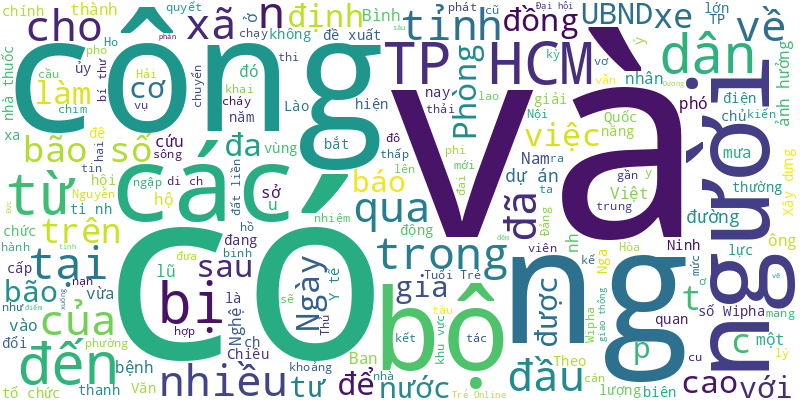
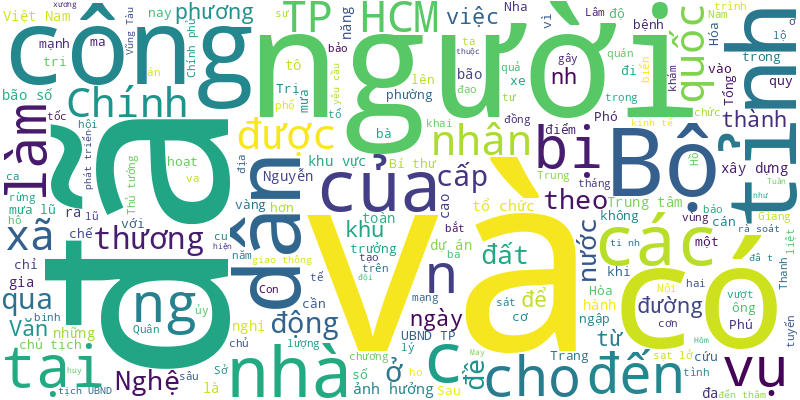
🍀 = 20%

diff --git a/README.md b/README.md
@@ -1,6 +1,32 @@
 # Tuoi Tre RSS 
 
 ## Giáo dục 
+- Bộ Chính trị thống nhất chủ trương đầu tư xây dựng các trường phổ thông nội trú liên cấp tiểu học và trung học cơ sở (THCS) tại 248 xã biên giới đất liền. Đây là lần đầu tiên có mô hình trường phổ thông nội trú liên cấp này ở các xã biên giới.
+- Một nhóm quản trị viên đã dùng fanpage giả mạo trang chính thức của Trường đại học Yersin Đà Lạt để thông tin nhiều nội dung không đúng về nhà trường. Cơ quan công an nhận định đây là hành vi bôi nhọ.
+- Hầu hết trường đại học chuyên ngành sức khỏe đều sử dụng chứng chỉ IELTS để tuyển sinh, cộng điểm xét tuyển.
+- Theo Bộ Giáo dục và Đào tạo, đội tuyển Việt Nam dự Olympic vật lý quốc tế (IPhO) năm 2025 giành 1 huy chương vàng, 4 huy chương bạc.
+- Một số trường đại học ở TP.HCM vừa công bố điểm sàn năm 2025, thấp hơn điểm chuẩn năm 2024 từ 8 - 13 điểm.
+- Tính đến hết ngày 23-7, đã có hơn 200 trường đại học, học viện công bố điểm sàn xét tuyển bằng điểm thi tốt nghiệp THPT, mức điểm dao động 14 - 25 điểm.
+- Trường đại học Ngân hàng TP.HCM và Trường đại học Công Thương TP.HCM vừa công bố điểm sàn và quy đổi điểm xét tuyển đại học hệ chính quy năm 2025.
+- Trường đại học Công nghệ thông tin (Đại học Quốc gia TP.HCM) bất ngờ điều chỉnh giảm điểm sàn xét tuyển đại học năm 2025 đã công bố trước đây. Học viện Hàng không Việt Nam cũng vừa điều chỉnh điểm sàn.
+- Chiều 23-7, đại diện UBND phường Phú Nhuận, TP.HCM cho biết clip bạo hành trẻ mầm non xuất hiện trên mạng xã hội những ngày qua là clip cũ, người bạo hành chuẩn bị hầu tòa.
+- Theo Học viện Ngân hàng, năm tổ hợp A00, A01, D07, D09, D14 không có chênh lệch điểm so với tổ hợp D01; tổ hợp C00, C03 có điểm trúng tuyển cao hơn so với tổ hợp D01 là 2,5 điểm/thang điểm 30.
+- Câu lạc bộ Khoa học - Khơi nguồn sáng tạo có nhiệm vụ giúp học sinh bồi dưỡng năng khiếu, niềm yêu thích đối với khoa học, công nghệ...
+- Thí sinh Phạm Huy Hùng nhận thông báo không trúng tuyển vào Trường THPT chuyên Trần Phú (Hải Phòng) đã được nhận trở lại.
+- Trường đại học Kinh tế - Luật (Đại học Quốc gia TP.HCM) vừa công bố điểm sàn và quy tắc quy đổi điểm trúng tuyển tương đương của các phương thức tuyển sinh năm 2025.
+- Ban Tuyển sinh quân sự (Bộ Quốc phòng) đã thông báo quy định mức điểm nhận hồ sơ xét tuyển đại học, cao đẳng vào 20 trường quân đội năm 2025 (điểm sàn).
+- Chiều 23-7, Trường đại học Sài Gòn công bố điểm sàn xét tuyển vào trường. Ngành cao nhất lên đến 25.
+- 203 học sinh xuất sắc được tuyển chọn để làm quen sớm với lập trình, dữ liệu và trí tuệ nhân tạo (AI) tại TP.HCM.
+- Bảng quy đổi điểm tương đương giữa các phương thức được Trường đại học Ngoại thương xây dựng dựa trên dữ liệu tuyển sinh 3 năm gần nhất, kết quả học tập của sinh viên đã trúng tuyển và phổ điểm xét tuyển theo từng nhóm thí sinh.
+- Ngày 23-7, Trường đại học Y Hà Nội công bố ngưỡng điểm sàn nhận hồ sơ xét tuyển năm 2025 phương thức xét điểm thi tốt nghiệp THPT, dao động từ 17 - 22,5 điểm.
+- Ngày 23-7, Đại học Cần Thơ thông báo ngưỡng đảm bảo chất lượng đầu vào (điểm sàn) đối với các ngành học bậc đại học chính quy năm 2025.
+- Trường đại học Khoa học xã hội và Nhân văn (Đại học Quốc gia TP.HCM) vừa công bố điểm các phương thức xét tuyển, trong đó ngành báo chí vẫn trong nhóm các ngành có điểm cao nhất.
+- Một số trường đào tạo y dược phía Bắc chính thức công bố ngưỡng điểm sàn xét tuyển riêng.
+- Trường đại học Y Dược công bố điểm sàn xét tuyển đại học chính quy năm 2025, với tất cả các ngành đều giảm 2 điểm so với mức sàn năm trước.
+- Tiếp xúc cử tri phường Quy Nhơn, Phó thủ tướng Hồ Đức Phớc nói ông đồng quan điểm việc nên thống nhất một bộ sách giáo khoa trên toàn quốc.
+- Vì sao nhiều người không đến họp lớp, hoặc đến rồi rời đi cùng tiếng thở dài?
+- Lần đầu tiên Bộ Giáo dục và Đào tạo công bố bách phân vị điểm thi 7 tổ hợp xét tuyển đại học. Vậy bách phân vị là gì, ý nghĩa ra sao?
+- Từ ngày 1-7, hàng triệu học sinh, sinh viên trên cả nước sẽ được hỗ trợ 50% mức đóng bảo hiểm y tế, thay vì chỉ 30% như trước.
 - Các chuyên gia nhận định điểm sàn khối ngành sức khỏe, sư phạm năm nay phù hợp với thực tế kỳ thi tốt nghiệp.
 - Nhiều trường đại học công bố điểm quy đổi tương đương giữa điểm học bạ, đánh giá năng lực và điểm thi đánh giá năng lực.
 - Trường đại học Y Dược Cần Thơ vừa có thông báo về ngưỡng đảm bảo chất lượng đầu vào xét tuyển các ngành hệ đại học chính quy năm 2025.
@@ -25,86 +51,63 @@
 - Năm nay, Trường đại học Ngoại thương (FTU) lấy điểm sàn cho phương thức xét điểm thi tốt nghiệp THPT với tổ hợp A00 (toán, lý, hóa) 24 điểm, các tổ hợp còn lại 23 điểm.
 - Chiều 21-7, Phó chủ tịch UBND TP.HCM đón và thưởng nóng 50 triệu đồng cho học sinh đoạt HCB toán quốc tế Lê Phan Đức Mân.
 - Điểm sàn các ngành sư phạm của trường là 19, tương đương điểm sàn khối ngành sư phạm năm 2024 do Bộ Giáo dục và Đào tạo công bố.
-- Ngày 21-7, giám đốc Sở Giáo dục và Đào tạo TP.HCM đã có quyết định về việc phân cấp thẩm quyền giải quyết việc chuyển trường sau sáp nhập.
-- Trường đại học Công nghiệp Hà Nội đã công bố bảng quy đổi điểm thi tốt nghiệp THPT với học bạ, điểm thi đánh giá năng lực, đánh giá tư duy.
-- Đại học Kinh tế TP.HCM vừa công bố điểm sàn và dự báo điểm chuẩn xét tuyển đại học chính quy năm 2025 của hai cơ sở đào tại TP.HCM và Vĩnh Long.
-- Những ngày này, từ trường học đến từng gia đình, đâu đâu cũng thấy những dòng trạng thái, những bức ảnh khoe điểm số, thành tích.
-- 5 sinh viên của Trường Du lịch (HTi), Đại học (ĐH) Duy Tân vừa chính thức nhận chứng chỉ thực tập, ghi nhận những nỗ lực và đóng góp trong các hoạt động do Vietnam Airlines tổ chức.
-- Chiều 21-7, hơn 70 đại học công bố điểm sàn 2025, phần lớn giảm so với năm ngoái.
-- Ngô Quang Minh giành HCV Olympic Hóa 2025, giúp Trường THPT chuyên Bắc Ninh có 3 năm liên tiếp đoạt vàng.
-- 300 thí sinh có điểm IELTS từ 7.5 - 8.5, một thí sinh có điểm SAT tuyệt đối 1.600/1.600 nộp chứng chỉ quốc tế để cộng điểm xét tuyển Trường đại học Y dược TP.HCM.
-- Trường đại học Sư phạm Hà Nội công bố các mốc quy đổi chính giữa điểm tổ hợp thi đánh giá năng lực do trường tổ chức sang điểm thi tốt nghiệp THPT.
-- Học viện Công nghệ bưu chính viễn thông vừa công bố ngưỡng đảm bảo chất lượng đầu vào trình độ đại học hệ chính quy đợt 1 năm 2025 (điểm sàn xét tuyển).
-- Các trường THPT ở TP.HCM cảnh báo khẩn phụ huynh, học sinh lớp 12 về chiêu lừa đảo mới sau khi có điểm thi tốt nghiệp THPT 2025.
-- Lần đầu tiên sẽ có mô hình trường phổ thông nội trú liên cấp tiểu học - THCS tại 248 xã biên giới, trước năm học mới 2025 - 2026 sẽ thí điểm cải tạo hoặc xây mới 100 trường ở dải đất vùng biên.
-- Năm 2025 với nhiều thay đổi trong tuyển sinh đại học, Bộ GD-ĐT và các trường thực hiện quy trình xét tuyển, lọc ảo ra sao? Thí sinh cần lưu ý gì để tránh mất cơ hội trúng tuyển?
-- Trường đại học Quốc tế Sài Gòn (SIU) triển khai chương trình học bổng 50% học phí toàn khóa dành cho thí sinh là con ruột của cán bộ, viên chức đang công tác trong ngành giáo dục và y tế.
-- Đăng ký nguyện vọng như thế nào để nắm chắc cơ hội trúng tuyển đại học luôn là một trong những bài toán khó đối với không ít thí sinh và cả các bậc phụ huynh.
-- Dự kiến quý 4-2025 phân hiệu miền Trung của Trường đại học Luật TP.HCM tại Quảng Trị bắt đầu tuyển sinh.
-- Việc Trần Xuân Đam trở thành một trong hai thủ khoa toàn quốc của kỳ thi tốt nghiệp THPT 2025 đang là đề tài bàn tán rôm rả ở vùng quê Lang Xá.
-- Một nữ sinh Trường THCS Đăk Mar (xã Đăk Mar, Quảng Ngãi) bị một nhóm nam nữ đánh hội đồng ở rẫy cà phê và quay video truyền cho nhau xem.
-- ThS Phạm Thanh Hà, Trường đại học Ngoại thương, lưu ý để tăng cơ hội trúng tuyển ngành học yêu thích, thí sinh không nên đặt quá ít nguyện vọng, cũng không nên đặt tất cả nguyện vọng vào một trường.
-- Đăng ký nguyện vọng thế nào để vừa theo được ngành yêu thích, vừa có nhiều cơ hội trúng tuyển? Chương trình học ra sao, học phí thế nào... Nhiều phụ huynh, thí sinh đã được chuyên gia tư vấn chi tiết tại Ngày hội lựa chọn nguyện vọng xét tuyển ĐH-CĐ.
-- Nhiều người cho rằng lời cảm ơn chỉ có trẻ con mới cần nói; hoặc chỉ nên nói với người thân quen, nếu cứ nói cảm ơn thì khách sáo quá.
-- Sau bài viết về nhóm học sinh tụ tập ném vỏ chai bia ra đường ở Quảng Trị, nhiều bạn đọc đánh giá cao với cách xử lý buộc phụ huynh cùng con em dọn sạch hiện trường.
-- Trận lốc xoáy quét qua một ngôi trường ở Hà Tĩnh khiến dãy nhà hai tầng bị tốc mái hoàn toàn, ước tính thiệt hại khoảng 300 triệu đồng.
-- Trong tập phát sóng tiếp theo của Khám phá trường học 2025, mời khán giả cùng chương trình tìm hiểu các ngành học tại Trường đại học Yersin Đà Lạt.
-- Tin tức đáng chú ý: Điểm chuẩn tuyển sinh đại học năm 2025 khó đoán; Bộ Y tế yêu cầu cấp cứu tối đa cho nạn nhân vụ lật tàu du lịch; Đề xuất chỉ cơ quan báo chí mới được sản xuất kênh chương trình chuyên quảng cáo...
-- Với phương thức xét điểm thi THPT 2025, điểm sàn các trường đại học dao động từ 15 đến 24.
 ![Edu](Edu.png)
 ## Thời Sự 
-- Đang câu cá, anh Đầu nghe tiếng kêu cứu thất thanh từ một hồ nước cạnh đó và đã lao xuống hồ nước sâu để cứu người.
-- Phòng khám đa khoa Việt Khang Thủ Đức là điểm nóng thường xuyên bị người dân phản ánh có tình trạng 'vẽ bệnh, moi tiền'.
-- Trong đêm 22-7, nhiều người dân ở xã Tương Dương (tỉnh Nghệ An) chạy lên núi, tìm nơi cao để tránh lũ.
-- Sau khi bão Wipha đổ bộ vào đất liền nước ta, nhiều người cho rằng ảnh hưởng gió bão, mưa có nơi cũng không lớn như dự báo trước đó.
-- Mưa lớn do bão số 3 (Wipha) khiến dòng chảy lũ về hồ thủy điện Bản Vẽ (Nghệ An) ở mức rất cao, vượt lưu lượng lũ thiết kế gần 3.000m³/s. Lũ trên sông Cả ở các trạm Mường Xén, Thạch Giám và Con Cuông đều trên báo động 3 từ 4,7m đến gần 8m.
-- Tin tức đáng chú ý: Đề xuất phụ cấp mới cho nhà giáo từ 1-1-2026 mức 25-80% lương; Bệnh viện Bạch Mai và Việt Đức mới hoạt động từ 30-11 tới đây.
-- Hôm nay 23-7, dù bão số 3 đã tan nhưng vùng nhiễu động suy yếu từ bão vẫn gây mưa to cho Bắc Bộ và các vùng lân cận.
-- Đêm 22-7, nước sông Nậm Mộ qua xã Mường Xén, tỉnh Nghệ An dâng cao gây ngập lụt nhiều khu dân cư. Người dân và chính quyền đang hối hả 'chạy lũ'.
-- Thủ tướng Lào tin tưởng nhân dân Việt Nam sẽ vượt qua mọi khó khăn, đưa cuộc sống của các gia đình bị ảnh hưởng sớm ổn định.
-- Thông tin được đưa ra trong quyết định số 1575 do Phó thủ tướng thường trực Nguyễn Hòa Bình ký ban hành về kế hoạch triển khai thi hành Luật Cán bộ, công chức năm 2025.
-- Ông Lâm Văn Mẫn được chỉ định làm bí thư Đảng ủy Hội đồng Dân tộc và phê chuẩn ông Hoàng Duy Chinh làm phó chủ tịch thường trực Hội đồng Dân tộc của Quốc hội.
-- Quảng Ngãi đang căng mình dập dịch tả heo châu Phi ở phía đông (tỉnh Quảng Ngãi cũ) thì đàn bò ở phía tây (tỉnh Kon Tum cũ) xuất hiện các triệu chứng bất thường, cơ quan chức năng ngay ngáy lo dịch lở mồm long móng.
-- Theo Phó chủ tịch UBND tỉnh Khánh Hòa Trần Hòa Nam, tỉnh sẽ gặp gỡ, đối thoại với doanh nghiệp, nhà đầu tư để giải quyết các kiến nghị và công khai, cam kết tiến độ xử lý đảm bảo minh bạch, hiệu quả, thực chất.
-- Khoảng 17h30 ngày 22-7, tại đê bối khu vực cống Cù Là, xã Hồng Vũ, tỉnh Hưng Yên có hiện tượng tràn 300m trên mặt đê và vỡ khoảng 7m đê.
-- Một đôi nam nữ người Lào mang theo 17kg ma túy đá cùng 6.000 viên ma túy tổng hợp qua biên giới Việt - Lào thì bị biên phòng bắt giữ.
-- Chiều 22-7, ông Nguyễn Văn Nên - ủy viên Bộ Chính trị, bí thư Thành ủy TP.HCM - dẫn đầu đoàn công tác thăm hỏi, tặng quà các thương binh, bệnh binh, người có công tại xã Long Hải, TP.HCM.
-- Do mưa lớn kéo dài ảnh hưởng từ cơn bão số 3 (bão Wipha), nước sông suối ở các xã miền núi Nghệ An dâng cao. Lũ quét qua cuốn trôi cầu, nhiều hộ dân bị chia cắt.
-- Nội dung được nêu trong thông báo kết luận của chủ tịch UBND TP.HCM, sau buổi làm việc với Tập đoàn Sun Group về đề xuất đầu tư các dự án tại TP.HCM.
-- Sau bão số 3, thủy triều lên nhanh làm một số tuyến đường nội đô thành phố Hải Phòng ngập trong nước.
-- Từ ngày 1 đến 18-7, TP.HCM đã tổ chức hơn 5.000 lượt xe đưa rước miễn phí cán bộ, công chức từ Bình Dương và Bà Rịa - Vũng Tàu cũ vào trung tâm TP làm việc.
-- Quảng Trị vừa có kiến nghị cơ chế đặc thù để tuyển dụng lãnh đạo, cán bộ phụ trách lĩnh vực đất đai có năng lực, chuyên môn để đáp ứng nhiệm vụ chủ đầu tư nhiều dự án giải phóng mặt bằng lớn, quan trọng của quốc gia.
-- Nhiều ý kiến đồng tình ủng hộ hướng bắt đầu chuyển đổi xe xăng sang xe điện bắt đầu từ shipper và góp ý cho lộ trình chuyển đổi tại TP.HCM.
-- Phó chủ tịch UBND TP.HCM Bùi Xuân Cường giao Sở Xây dựng khẩn trương phối hợp với UBND các phường xây dựng kế hoạch cải tạo, xây dựng lại 31 chung cư cũ trong năm 2025.
-- Chiều 22-7, bão số 3 (Wipha) bất ngờ ít di chuyển và tại Hòn Dấu (Hải Phòng), Văn Lý (Ninh Bình) lúc 16h vẫn có gió mạnh cấp 8, giật cấp 10.
-- Bộ trưởng Bộ Y tế Đào Hồng Lan đã có trả lời ý kiến của cử tri về đề xuất sáp nhập các trạm y tế xã, phường mới.
-- Dù việc nuôi chim diều lửa cần phải có giấy tờ chứng minh nguồn gốc hợp pháp, nhưng vẫn có người mang loài chim này đến bờ kênh Nhiêu Lộc - Thị Nghè, TP.HCM để huấn luyện cho chim bay lượn cũng như quay clip đăng lên mạng xã hội.
-- Vấn đề gói đồ ăn thừa từ đám cưới hoặc tiệc tùng để mang về nhà thu hút nhiều tranh luận, sau bài viết trên Tuổi Trẻ Online.
-- Công ty TNHH Công nghệ bảo hộ Kanglongda Việt Nam vừa bị UBND TP Huế xử phạt hành chính 335 triệu đồng, vì bán 2,6 tấn chất thải nguy hại cho người không có chức năng xử lý và vi phạm quy định về lưu giữ chất thải công nghiệp.
-- Theo bạn đọc, việc chẩn đoán khác biệt giữa hai cơ sở y tế là điều không thể chấp nhận.
-- Lợi dụng sáp nhập tỉnh thành, nhiều đối tượng lừa đảo giả mạo nhân viên điện lực TP.HCM để chiếm đoạt tài sản khách hàng.
-- Lực lượng cảnh sát phòng cháy chữa cháy và cứu nạn cứu hộ - Công an TP Hà Nội vừa phối hợp lực lượng tại chỗ, cơ sở dập tắt đám cháy tại ngôi nhà 5 tầng trên đường Giải Phóng.
-- Bộ Công an đã tổ chức các hoạt động nhân kỷ niệm 78 năm Ngày Thương binh Liệt sĩ, 65 năm Ngày thành lập Ban An ninh Trung ương Cục miền Nam tại tỉnh Tây Ninh.
-- Theo báo cáo của Sở Y tế TP.HCM, đến nay TP có 2.711 nhà thuốc (trong đó gồm nhà thuốc tư nhân, nhà thuốc bệnh viện, và các nhà thuốc của doanh nghiệp) tham gia bán giá thuốc bình ổn, thấp hơn giá thị trường tối thiểu 5%.
-- Do ảnh hưởng bão số 3, hai hãng tàu cao tốc Phú Quốc Express và Phú Quý Express tạm ngưng tuyến ra Côn Đảo từ 21 đến 25-7.
-- Sau khi phát hiện gà nuôi trong 1 hộ gia đình bị nhiễm cúm gia cầm A (H5N1), ngành chức năng Đắk Lắk đã khoanh vùng dập dịch.
-- Lúc 13h chiều 22-7, tâm bão số 3 (Wipha) đang trên đất liền Ninh Bình - Thanh Hóa. Dự báo trong chiều tối nay, bão sẽ đi sâu vào đất liền và suy yếu thành vùng áp thấp trên khu vực thượng Lào.
-- Do ảnh hưởng cơn bão số 3 Wipha, trong 2 ngày qua, trên địa bàn nhiều xã, phường của tỉnh Thanh Hóa có mưa to đến rất to làm gần 7.200ha lúa mùa bị ngập cục bộ.
-- Ông Nguyễn Trọng Nghĩa dẫn đầu đoàn công tác đến làm việc với Ban Thường vụ Tỉnh ủy An Giang về một số giải pháp phát triển kinh tế và công tác chuẩn bị Đại hội Đảng bộ nhiệm kỳ 2025-2030.
-- Phòng Cảnh sát giao thông Công an tỉnh Đồng Nai cho hay việc công bố số điện thoại nhằm giải quyết nhanh các vụ việc được người dân phản ảnh.
-- Ban Bí thư yêu cầu các cơ quan, địa phương tăng cường chỉ đạo, kiểm tra, ứng phó với bão số 3 (bão Wipha), hạn chế đến mức thấp nhất thiệt hại xảy ra.
-- Trao đổi với Tuổi Trẻ Online, trung tá Lê Thế Dũng, phó đồn trưởng Đồn biên phòng cửa khẩu cảng Hòn Gai, cho biết đã vớt được 1 thi thể nạn nhân tại khu vực cách vị trí tàu Vịnh Xanh 58 gặp nạn khoảng 500m.
-- Bộ Xây dựng cho biết cầu Nhơn Trạch đạt 99% khối lượng, sẵn sàng khai thác. Tuy nhiên, hiện chưa có đường kết nối với vành đai 3 TP.HCM. Tuổi Trẻ Online trao đổi với chủ đầu tư vành đai 3 về vấn đề này.
-- Ngày 22-7, Đảng bộ phường Nha Trang (tỉnh Khánh Hòa) tổ chức Đại hội đại biểu lần thứ I nhiệm kỳ 2025 - 2030. Đây là đại hội điểm cấp cơ sở của Khánh Hòa.
-- Xe hơi chở bốn người bất ngờ bị nổ lốp, sau đó lao vào xe đầu kéo và dải phân cách.
-- Ngày 22-7, Ban quản lý dự án Mỹ Thuận đã báo cáo Bộ Xây dựng về kế hoạch tổ chức lễ khởi công dự án cao tốc Mỹ An - Cao Lãnh giai đoạn 1.
-- Một ổ dịch bệnh dại vừa được phát hiện tại biên giới xã Ia Tơi, Quảng Ngãi. Đến nay đã có 15 con chó bị tiêu hủy và ít nhất hai người bị chó dại cắn đã được tiêm vắc xin, huyết thanh phòng bệnh dại.
-- Người đàn ông ở Đồng Nai chạy xe máy vào đường cong thì mất lái lao thẳng xuống lề đường, văng xa cả chục mét, tử vong sau đó.
-- Chính phủ vừa có nghị quyết tháo gỡ khó khăn, vướng mắc liên quan đến dự án ngăn triều 10.000 tỉ và dự án kết nối đường Phạm Văn Đồng đến nút giao thông Gò Dưa - quốc lộ 1.
-- Đảng ủy xã Nghĩa Hành, Quảng Ngãi đã họp với UBND xã chấn chỉnh những phát sinh không đáng có trong công tác phòng, chống dịch. Việc có người tự phát thu tiền của người dân là chưa đúng và yêu cầu hoàn trả.
-- TP.HCM sẽ nghiên cứu, đề xuất quy định bắt buộc kiểm định khí thải định kỳ xe máy, từng bước loại bỏ xe cũ nát nhằm giảm ô nhiễm môi trường và đảm bảo an toàn giao thông.
+- Hôm nay, cường độ bão Cỏ May (bão số 4) có thể mạnh lên cấp 10 (89-102km/h), giật cấp 12 - cấp bão mạnh nhưng hầu như không có khả năng ảnh hưởng đến đất liền và ven biển nước ta.
+- Theo Bộ Giáo dục và Đào tạo, đội tuyển Việt Nam dự Olympic vật lý quốc tế (IPhO) năm 2025 giành 1 huy chương vàng, 4 huy chương bạc.
+- Bộ xương người này được một người dân đi rừng phát hiện ở vùng rừng có tên Ngọn Khe Tuần, thuộc xã Tuyên Lâm, Quảng Trị, nghi là của người đàn ông mất tích khi đi săn mật ong.
+- Bộ Nội vụ đề xuất người sử dụng lao động không xóa bỏ, cắt giảm tiền lương khác của người lao động khi tăng lương tối thiểu vùng.
+- Hôm nay 24-7, trọng tâm mưa vẫn tập trung ở hai tỉnh Thanh Hóa, Nghệ An, mưa liên tục gây lũ và sạt lở nguy hiểm.
+- Phu nhân Tổng Bí thư Tô Lâm, bà Ngô Phương Ly, đã đến Matxcơva và dành hoạt động đầu tiên trong ngày 23-7 cho cộng đồng người Việt Nam tại đây.
+- Chương trình Ngày hội văn hóa hữu nghị Việt - Hàn 2025 tổ chức tại làn ô tô đường Lê Lợi (đoạn từ Nguyễn Huệ đến Pasteur), phường Sài Gòn từ nay đến 24h ngày 28-7.
+- 'Số nhà trôi khoảng 150 nhà, ngập trên 200 nhà, cầu treo Yên Hòa trôi hoàn toàn, quốc lộ 16 bị sạt lở chia cắt nhiều điểm…', bức thư tay của đồn trưởng Đồn biên phòng Mỹ Lý, Nghệ An viết vội.
+- Trước diễn biến mưa lũ do ảnh hưởng cơn bão số 3, Phó thủ tướng Chính phủ Mai Văn Chính đề nghị tỉnh Nghệ An có phương án đảm bảo an toàn tính mạng và tài sản của nhân dân và Nhà nước.
+- Lực lượng chức năng cơ bản đã khống chế được đám cháy xảy ra trên núi Hoàng Ngưu Sơn (phường Nam Nha Trang, tỉnh Khánh Hòa).
+- Ông Đỗ Văn Chiến nêu rõ việc xây dựng đề án sáp nhập, tinh gọn các tổ chức hội được Đảng, Nhà nước giao nhiệm vụ trình Bộ Chính trị.
+- Sở Xây dựng TP.HCM đề nghị lực lượng cảnh sát giao thông và các địa phương tổ chức ra quân chấn chỉnh, xử lý nghiêm tình trạng xe ba, bốn bánh tự chế lưu thông gây mất an toàn giao thông.
+- "Chuyển đổi phương tiện giao thông 'xanh' là nhiệm vụ cấp thiết, cần triển khai quyết liệt, khẩn trương theo các chỉ đạo của Chính phủ, HĐND và UBND TP" - theo ông Nguyễn Mạnh Quyền, phó chủ tịch UBND TP Hà Nội.
+- Những tấm lòng vàng, nghĩa cử cao đẹp của cộng đồng là nguồn động viên tiếp thêm sức mạnh cho người dân vùng lũ Nghệ An sớm vượt qua khó khăn.
+- Phó bí thư Thành ủy kiêm Chủ tịch Ủy ban Mặt trận Tổ quốc Việt Nam TP.HCM Nguyễn Phước Lộc đã đến thăm, tặng quà các thương binh, gia đình chính sách tiêu biểu, người có công với cách mạng.
+- TP.HCM yêu cầu rà soát, bố trí nhân sự làm việc tại Trung tâm phục vụ hành chính công TP.HCM, Trung tâm phục vụ hành chính công khu vực Bình Dương, Bà Rịa - Vũng Tàu và 38 tổ địa bàn để sẵn sàng hoạt động từ ngày 31-7.
+- Theo quy hoạch mới của Khu kinh tế Chân Mây - Lăng Cô (TP Huế), trong tương lai sẽ có một tuyến đường cao tốc nối cảng Chân Mây với cao tốc Cam Lộ - La Sơn.
+- Nhà đất của 31 hộ dân đường Nguyễn Bỉnh Khiêm, Nha Trang được tỉnh bán “hóa giá” cho cán bộ, công chức hơn 40 năm và lãnh đạo tỉnh Khánh Hòa cũ đã chỉ đạo giải tỏa, thu hồi đất để mở rộng khu trụ sở tỉnh đang xây.
+- Mỗi năm vào tháng bảy, nhân dân ta lại dành những tình cảm thiêng liêng và sâu lắng nhất để tưởng nhớ, tri ân những người hy sinh vì non sông đất nước.
+- Đến thăm người có công, Chủ tịch UBND TP.HCM Nguyễn Văn Được bày tỏ sự tri ân sâu sắc đến những cán bộ lão thành cách mạng, thương binh, bệnh binh đã dũng cảm chiến đấu, hy sinh xương máu vì sự nghiệp giải phóng dân tộc, bảo vệ Tổ quốc.
+- Ngày 23-7, UBND TP.HCM đã ban hành kế hoạch thực hiện công tác bồi thường, hỗ trợ, tái định cư cho dự án đường sắt tốc độ cao Bắc - Nam và dự án khai thác quỹ đất vùng phụ cận các nhà ga, depot đường sắt.
+- Mưa do ảnh hưởng của bão số 3 suy yếu không có dấu hiệu ngớt, dộ ẩm đất đã bão hòa, nhiều nơi ở Thanh Hóa, Nghệ An nguy cơ lũ, sạt lở rất cao.
+- Thủ tướng yêu cầu bộ trưởng Bộ Công Thương chỉ đạo các địa phương và chủ đập thủy điện rà soát, xây dựng phương án ứng phó để chủ động bảo đảm an toàn cho các hồ đập thủy điện, nhất là khi xuất hiện các tình huống mưa lũ lớn vượt mức thiết kế.
+- Thứ trưởng Bộ Công Thương Nguyễn Hoàng Long cho rằng các dự án năng lượng là các dự án quyết định việc tăng trưởng kinh tế hai con số.
+- Do sợ vợ buồn vì bán nhẫn để trả nợ, nên tài xế taxi đã dựng chuyện bị cướp nhẫn vàng và trình báo đến cơ quan công an.
+- Công an tỉnh An Giang đã bắt quả tang 3 người có hành vi dùng xe chuyên dụng khai thác đá, đất trái phép tại khu phố Đường Bào, đặc khu Phú Quốc.
+- Vụ va chạm khiến 2 người bị thương được đưa đi cấp cứu. Cảnh sát cùng người dân phải đẩy xe bán tải lên để giải cứu nạn nhân mắc kẹt.
+- Ngày 23-7, Thủ tướng Phạm Minh Chính chủ trì phiên họp Chính phủ chuyên đề xây dựng pháp luật tháng 7-2025.
+- Sau 2 tuần mở rộng truy xét đường dây tổ chức tội phạm ma túy liên quan 3 quán bar tại phường Đông Hòa, An Phú (tỉnh Bình Dương cũ) và phường Vũng Tàu (tỉnh Bà Rịa - Vũng Tàu cũ), Công an TP.HCM đã khởi tố 247 bị can.
+- Mưa lũ dồn dập do ảnh hưởng từ cơn bão số 3 (bão Wipha) ở Nghệ An đã làm 3 người chết, 4 người bị thương và hơn 3.200 nhà dân bị ngập.
+- Dự án rạp xiếc và biểu diễn đa năng Phú Thọ ở TP.HCM có tổng vốn đầu tư gần 1.400 tỉ đồng sắp hoàn thành.
+- Trung tâm phát triển quỹ đất thành phố Cần Thơ trực thuộc UBND thành phố có 6 phòng và 10 chi nhánh phát triển quỹ đất khu vực.
+- Có lợi thế rừng và biển, Phú Quốc đề nghị cấp thẩm quyền cần nghiên cứu lấn biển, xây đảo nhân tạo để làm sân golf, khu dịch vụ, khu chức năng, phát triển du lịch, kinh tế - xã hội ở đảo bền vững và mang tầm cỡ thế giới.
+- Bộ Nội vụ đã có trả lời kiến nghị của cử tri về chế độ, chính sách và cơ chế tạo việc làm với cán bộ, công chức chuyển từ khu vực công sang tư nhân.
+- "Cả đêm qua nhà tôi thức trắng vì nước lên từng giờ. Đến sáng nay, nước đã ngập nửa nhà", bà Vy Thị Hoạt, thôn Nà Vạt, xã Con Cuông, nói.
+- Chỉ vài milimet chênh lệch trong quy định thuế đã mở ra “lối vòng” cho hàng trăm ngàn tấn thép cán nóng (HRC) giá rẻ tràn vào Việt Nam.
+- Người dân đến khám sức khỏe tại Trung tâm Y tế khu vực Hải Châu (Đà Nẵng) bất ngờ được chỉ qua... quán tạp hóa đối diện.
+- TP.HCM có 12/162 bệnh viện đạt điểm trên 900 điểm tính theo thang điểm 1.000, dựa vào các tiêu chí như: độ hài lòng, công tác cấp cứu...
+- Giám đốc Sở Xây dựng tỉnh Gia Lai cho biết đã thông báo dừng tổ chức các chuyến xe đưa đón cán bộ tỉnh từ Pleiku xuống Quy Nhơn làm việc.
+- Sau hơn 7 tháng vận hành, tuyến metro số 1 (Bến Thành - Suối Tiên) đã ghi nhận những kết quả vượt mong đợi.
+- Một nam thanh niên bị công an bắt quả tang mang theo súng đã lên đạn, ma túy và kiếm sau khi xô xát tại quán ăn ở trung tâm Đông Hà.
+- Sáng 23-7, Tổng Bí thư Tô Lâm - Bí thư Quân ủy Trung ương, đến thăm, làm việc với Tổng cục Chính trị Quân đội nhân dân Việt Nam.
+- Mưa dông, kèm gió lốc mạnh đã khiến hàng loạt nhà dân ở các xã biên giới miền Trung từ Quảng Trị đến Quảng Ngãi tốc mái, sập, hư hỏng...
+- Cơn lốc xoáy quét qua xã Ba Chúc, tỉnh An Giang trong tích tắc đã làm 19 căn nhà bị sập, tốc mái nghiêm trọng.
+- Lãnh đạo xã Cần Giuộc (tỉnh Tây Ninh) vừa khen thưởng nóng cho 2 đơn vị khám phá nhanh, bắt kẻ gây ra vụ cướp tiệm vàng vào tối 22-7.
+- 12 hài cốt liệt sĩ vừa được tìm thấy tại xã Hiếu Giang đã được tổ chức lễ truy điệu, an táng trang trọng tại Nghĩa trang liệt sĩ quốc gia Đường 9.
+- Sở Y tế Đà Nẵng yêu cầu toàn bộ hệ thống khám chữa bệnh rà soát, chấn chỉnh hoạt động hành nghề sau loạt phản ánh "vẽ bệnh moi tiền".
+- Hai ngôi nhà sàn của anh em Hồ Văn K Roi và Hồ Văn Thương tại xã A Dơi, tỉnh Quảng Trị bị cháy rụi, rất may không có thương vong.
+- Mưa lũ do ảnh hưởng của bão số 3 (bão Wipha) làm tuyến quốc lộ 7 đoạn qua khu vực eo Vực Bồng, xã Con Cuông bị ngập sâu hơn 1m.
+- Ông Lữ Quang Ngời - chủ tịch UBND tỉnh Vĩnh Long - đã khảo sát, nghe báo cáo một số khó khăn làm ảnh hưởng đến tiến độ dự án cầu Đại Ngãi.
 ![New](News.png)
 ## Nhịp sống số 
+- Giả mạo shipper là một hình thức lừa đảo ngày càng tinh vi, gây thiệt hại lớn cho người tiêu dùng.
+- Hai khối băng tần được đấu giá lại là những băng tần quan trọng, giúp tối ưu hóa tốc độ và độ phủ sóng của các mạng di động thế hệ mới.
+- Các cuộc tấn công này cho phép tin tặc chiếm quyền kiểm soát hoàn toàn hệ thống, cài đặt cửa hậu (backdoor) để truy cập lâu dài.
 - Công ty khởi nghiệp về công nghệ thần kinh Neuralink của tỉ phú Mỹ Elon Musk vừa thông báo lần đầu tiên thực hiện thành công 2 ca cấy chip vào não người trong 1 ngày.
 - Mùa hè sôi động đang gọi tên bạn, và JBL sẵn sàng cùng bạn khuấy đảo từng khoảnh khắc với đại tiệc khuyến mãi JBL Summer Sale cực kỳ hấp dẫn - chỉ từ 990.000 đồng.
 - Microsoft phối hợp Chính phủ Pháp tạo bản sao kỹ thuật số Nhà thờ Đức Bà, mở ra trải nghiệm thực tế ảo cho những người không thể đến Paris, đồng thời lưu trữ chi tiết kiến trúc trong 100 năm tới.
@@ -152,7 +155,4 @@
 - Bạn là chính bạn, nhưng thiết bị chỉ tin điều đó khi vân tay, khuôn mặt hay mã số khớp hoàn hảo. Trong thế giới số, danh tính không còn là con người thật, mà là dữ liệu máy móc có chấp nhận hay không.
 - Khi AI trở thành công cụ không thể thiếu trong cuộc sống hằng ngày, từ việc soạn email công việc đến viết hôn thú, điều quan trọng là chúng ta phải nhìn nhận và hiểu rõ những tác động sinh thái mà nó mang lại.
 - Bạn từng nghĩ mình viết tốt, có gu, biết lập trình, thiết kế ổn. Rồi AI viết hay hơn, chỉnh ảnh đẹp hơn, code logic chuẩn hơn. Và thế là bạn bắt đầu tự hỏi: Khi mọi thứ đều có AI làm giỏi hơn, rốt cuộc bạn giỏi điều gì?
-- Tại nhiều quốc gia, nghề nuôi ong đang chuyển mình với công nghệ cảm biến và trí tuệ nhân tạo. Chỉ cần xem điện thoại, người nuôi biết hết những gì xảy ra bên trong tổ ong.
-- Google chính thức hé lộ Android XR, một nền tảng dành riêng cho thiết bị thực tế ảo và tăng cường, được kỳ vọng sẽ định hình lại cách chúng ta làm việc, giải trí và kết nối với thế giới ảo, bắt đầu từ cuối năm 2025.
-- Không chỉ phổ cập mạng tốc độ cao, Viettel còn mang đến trải nghiệm số sống động cho người dân miền Tây ngay tại chợ, trường học, công viên và khu dân cư.
 ![life](Life.png)
